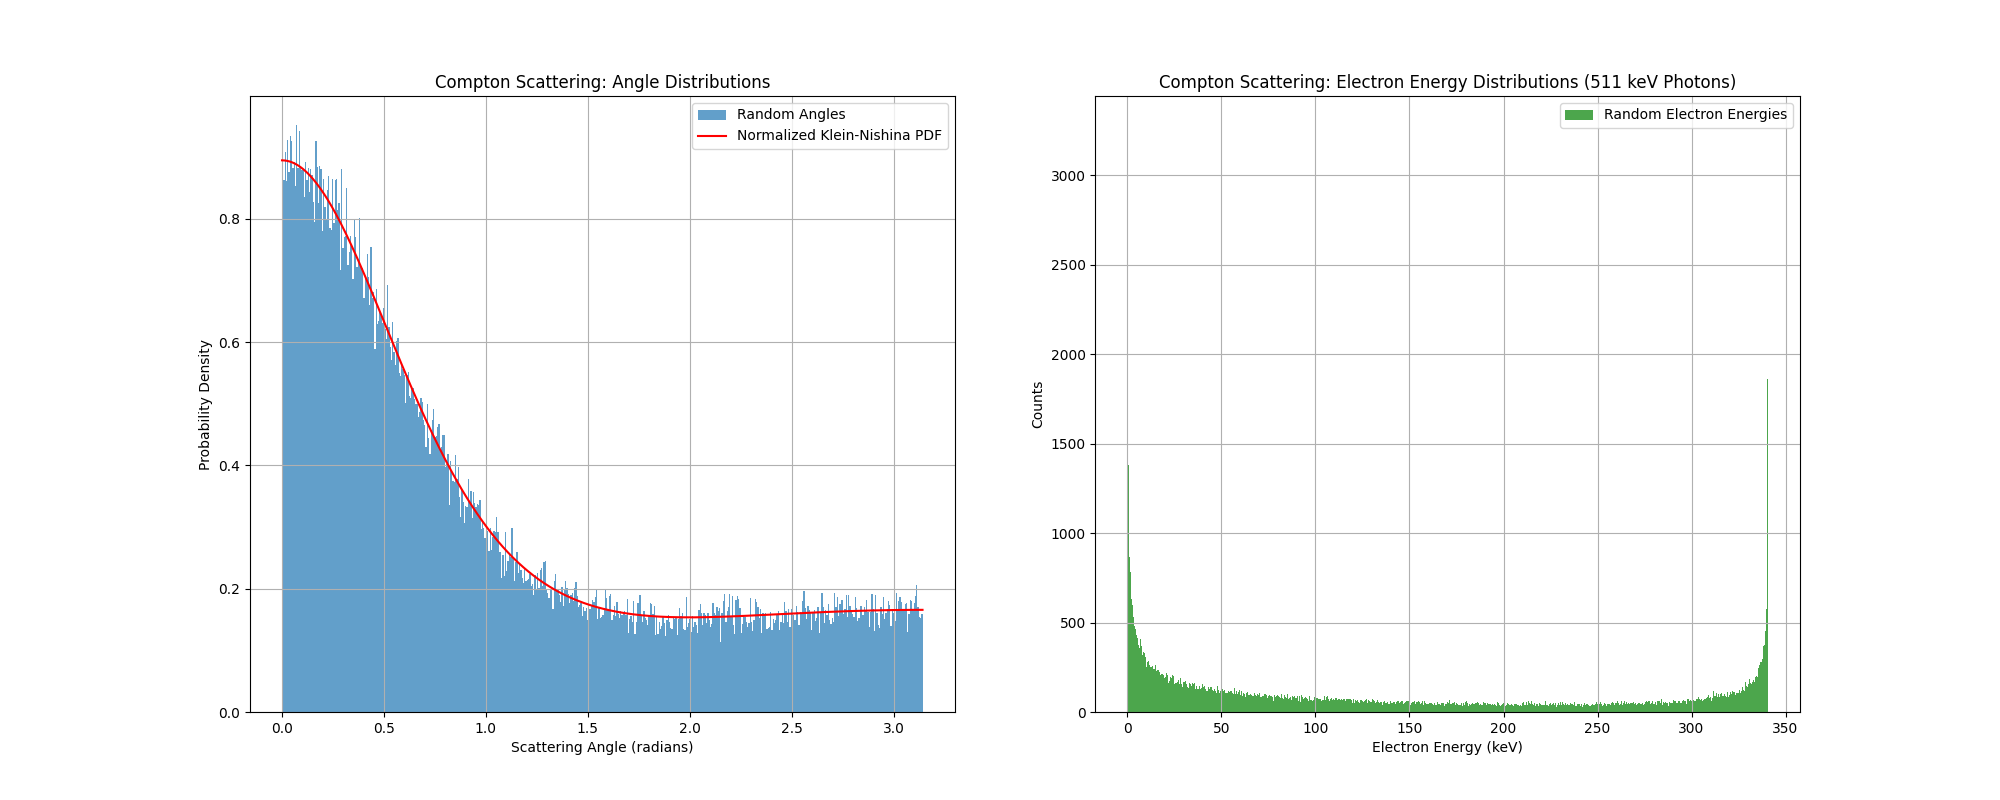
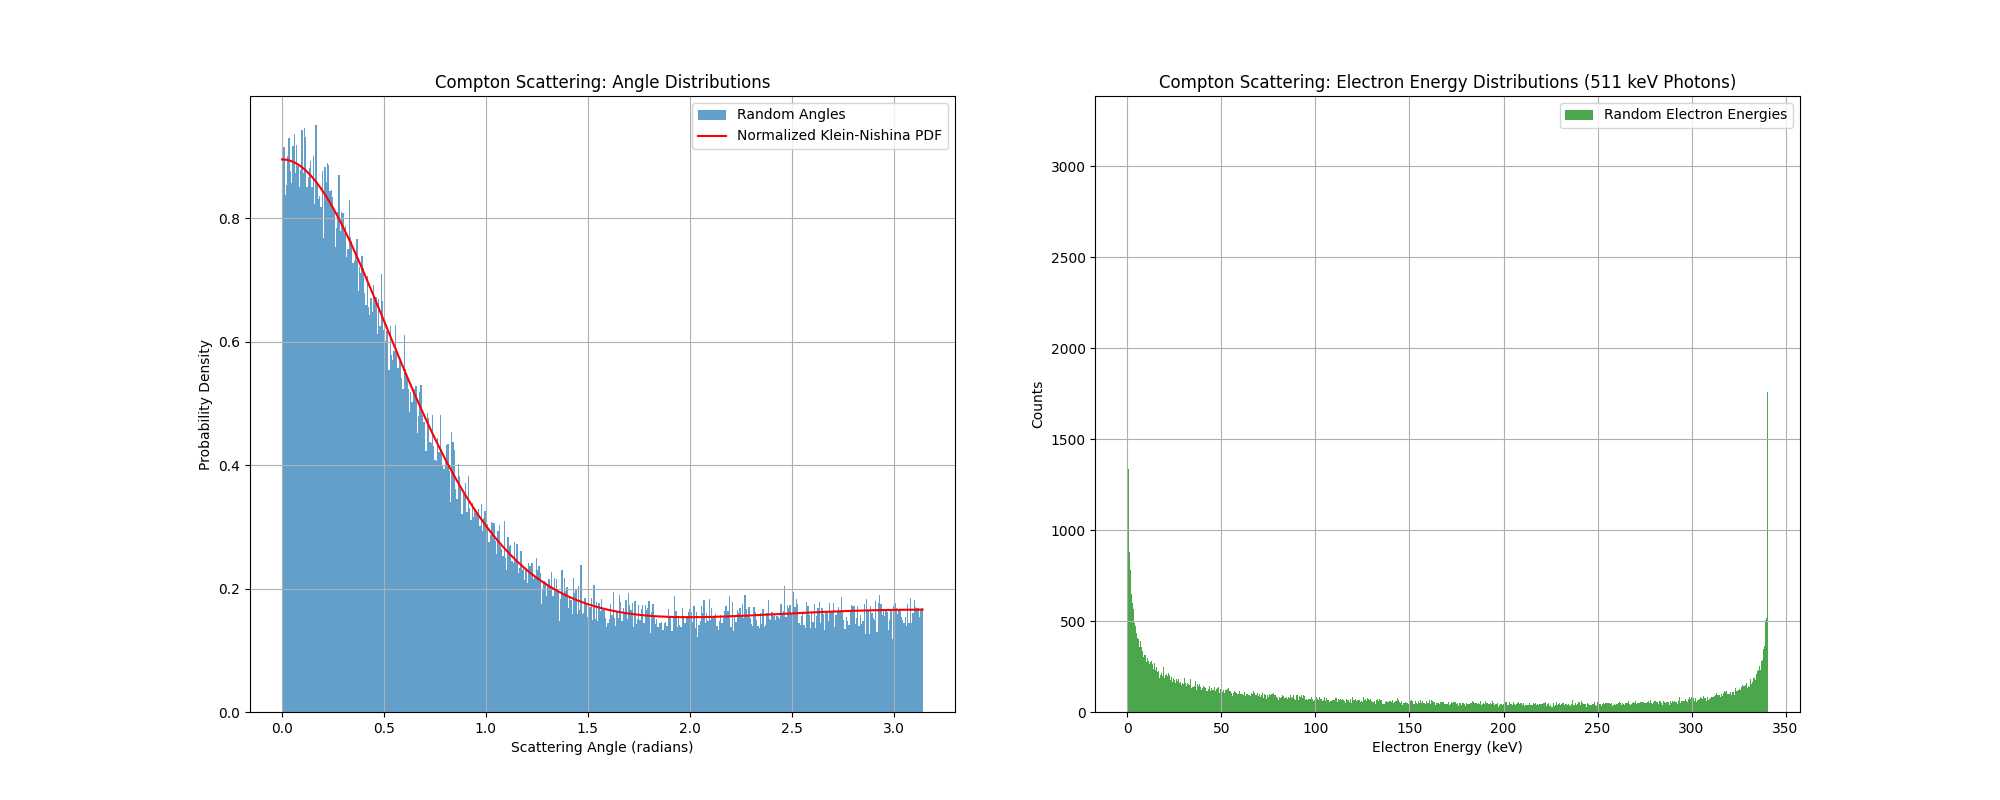
updated electron energy values and klein nishina distr.

diff --git a/Simulation/codes/pdf_angles.py b/Simulation/codes/pdf_angles.py
@@ -1,11 +1,13 @@
 import numpy as np
 import matplotlib.pyplot as plt
+import matplotlib.cm as cm
+import matplotlib.colors as mcolors
 from lib import particles as p
 from scipy.integrate import quad
 import random
 
 # File path to save the output spectrum plot
-file_path = "/mnt/c/Users/User/Desktop/info/Compton/Simulation/plots/compton_angles_distributions/"
+file_path = "/home/leonardo/Compton/Simulation/plots/compton_angles_distributions/"
 
 # Instantiate a Photon object with arbitrary energy and direction
 
@@ -62,44 +64,56 @@ plt.grid(True)
 # Save and show the figure
 plt.savefig(file_path + 'angle_distributions_Klein_Nishina.png')
 
+
+# Disegniamo la linea chiusa segmentando e colorando ogni tratto in base all'energia
+for i in range(len(random_angles) - 1):
+    theta_seg = random_angles[i:i+2]
+    r_seg = normalized_pdf_values[i:i+2]
+    # Il colore è scelto in base al valore dell'energia al punto di partenza del segmento
+    color = cmap(norm(random_electron_energies[i]))
+    ax.plot(theta_seg, r_seg, color=color, linewidth=2)
+
+
+
+
 """
 Uniform distribution
 """
 
-# Generate 10,000 random Compton scattering angles (uniform distribution)
-random_angles = [random.uniform(0, np.pi) for _ in range(number_of_photons)]
-
-# Define the uniform PDF over a range of angles
-angle_range = np.linspace(0, np.pi, 500)
-uniform_pdf_values = [1 / np.pi for _ in angle_range]  # Uniform distribution over [0, pi]
-
-# Generate 10,000 random electron energies
-random_electron_energies = [photon.energy - photon.compton_scattering(angle) for angle in random_angles]
-
-# Plot histogram of random angles, uniform PDF, and electron energy distribution in the same figure
-plt.figure(figsize=(20, 8))
-
-plt.subplot(1, 2, 1)
-# Histogram of random angles
-plt.hist(random_angles, bins=500, density=True, alpha=0.7, label='Random Angles')
-# Uniform PDF
-plt.plot(angle_range, uniform_pdf_values, color='red', label='Uniform PDF')
-
-plt.xlabel('Scattering Angle (radians)')
-plt.ylabel('Probability Density')
-plt.title('Compton Scattering: Angle Distributions (Uniform PDF)')
-plt.legend()
-plt.grid(True)
-
-plt.subplot(1, 2, 2)
-# Histogram of random electron energies
-plt.hist(random_electron_energies, bins=1000, alpha=0.7, label='Random Electron Energies', color='green')
-
-plt.xlabel('Electron Energy (keV)')
-plt.ylabel('Counts')
-plt.title('Compton Scattering: Electron Energy Distributions (511 keV Photons)')
-plt.legend()
-plt.grid(True)
-
-# Save and show the figure
-plt.savefig(file_path + 'angle_distributions_uniform.png')
+## Generate 10,000 random Compton scattering angles (uniform distribution)
+#random_angles = [random.uniform(0, np.pi) for _ in range(number_of_photons)]
+#
+## Define the uniform PDF over a range of angles
+#angle_range = np.linspace(0, np.pi, 500)
+#uniform_pdf_values = [1 / np.pi for _ in angle_range]  # Uniform distribution over [0, pi]
+#
+## Generate 10,000 random electron energies
+#random_electron_energies = [photon.energy - photon.compton_scattering(angle) for angle in random_angles]
+#
+## Plot histogram of random angles, uniform PDF, and electron energy distribution in the same figure
+#plt.figure(figsize=(20, 8))
+#
+#plt.subplot(1, 2, 1)
+## Histogram of random angles
+#plt.hist(random_angles, bins=500, density=True, alpha=0.7, label='Random Angles')
+## Uniform PDF
+#plt.plot(angle_range, uniform_pdf_values, color='red', label='Uniform PDF')
+#
+#plt.xlabel('Scattering Angle (radians)')
+#plt.ylabel('Probability Density')
+#plt.title('Compton Scattering: Angle Distributions (Uniform PDF)')
+#plt.legend()
+#plt.grid(True)
+#
+#plt.subplot(1, 2, 2)
+## Histogram of random electron energies
+#plt.hist(random_electron_energies, bins=1000, alpha=0.7, label='Random Electron Energies', color='green')
+#
+#plt.xlabel('Electron Energy (keV)')
+#plt.ylabel('Counts')
+#plt.title('Compton Scattering: Electron Energy Distributions (511 keV Photons)')
+#plt.legend()
+#plt.grid(True)
+#
+## Save and show the figure
+#plt.savefig(file_path + 'angle_distributions_uniform.png')

diff --git a/Simulation/codes/lib/experiments.py b/Simulation/codes/lib/experiments.py
@@ -60,7 +60,7 @@ def photon_propagation_to_target(photon: p.Photon, distance: float, direction=No
     return photon
 
 
-def gamma_detection(photon: p.Photon, detector: d.Detector, distance_source_detector: float, step: float) -> float:
+def gamma_detection(photon: p.Photon, detector: d.Detector, distance_source_detector: float, step: float, true_energy = False) -> float:
     """
     Simulates the propagation and interaction of a gamma photon with a detector.
     
@@ -68,6 +68,7 @@ def gamma_detection(photon: p.Photon, detector: d.Detector, distance_source_dete
     :param detector: Detector object representing the detector.
     :param distance_source_detector: Distance between the source and the detector (in cm).
     :param step: Step size for photon propagation (in cm).
+    :param true_energy: Flag to return the true energy of the electron or its detected energy.
     :return: Energy of the detected interaction in keV or 0 if no interaction occurs.
     """
     photon = photon_propagation_to_target(photon, distance_source_detector)
@@ -87,7 +88,11 @@ def gamma_detection(photon: p.Photon, detector: d.Detector, distance_source_dete
 
         photon.propagation(step)
 
-    return detector.detection(electron)
+    if true_energy == True: #If true_energy is True, returns the (real) electron's energy
+        return electron.energy
+    
+    else: #If true_energy is False, returns the electron's energy after detection
+        return detector.detection(electron)
 
 
 def spectroscopy_measurement(number_of_photons, detector: d.Detector, source: s.Source, testing: bool = False, step: float = step) -> list[float]:

diff --git a/Simulation/codes/sigma_simulation_vs_angle.py b/Simulation/codes/sigma_simulation_vs_angle.py
@@ -10,7 +10,7 @@ from lib import source as s
 from lib import visualization as v
 
 # File path to save the output spectrum plot
-file_path = "/mnt/c/Users/User/Desktop/info/Compton/Simulation/plots/"
+file_path = "../../simulated-events/data/"
 
 # Initialize detectors with their respective positions and dimensions
 detector = d.Detector(([0, 30.5, 0], [0, 35.58, 0]), 2.54, 0.0695)  # Detector "Franco"
@@ -136,11 +136,14 @@ for j in tqdm(range(100), desc="N_cycles", unit="iteration"):
     print(f"Number of photons that reached the detector: {len(photons_to_detector)}")
     # v.visualization_3D_plotly("photons_to_detector.html", [detector], photons_to_detector, source, target)
 
-    detected_energies = []
+    detected_energies = [] #array for eletron's energy as detected by the detector
+    true_detected_energies = [] #array for electron's real energy 
     for photon in photons_to_detector:
         energy = e.gamma_detection(photon, detector, distance_source_detector=0, step=step)
+        true_energy = e.gamma_detection(photon, detector, distance_source_detector=0, step=step, true_energy=True)
         if energy > 0:
             detected_energies.append(energy)
+            true_detected_energies.append(true_energy)
 
     # v.plot_energy_spectrum(detected_energies, "Energies.png")
     print(f"Number of photons observed by the detector: {len(detected_energies)}")
